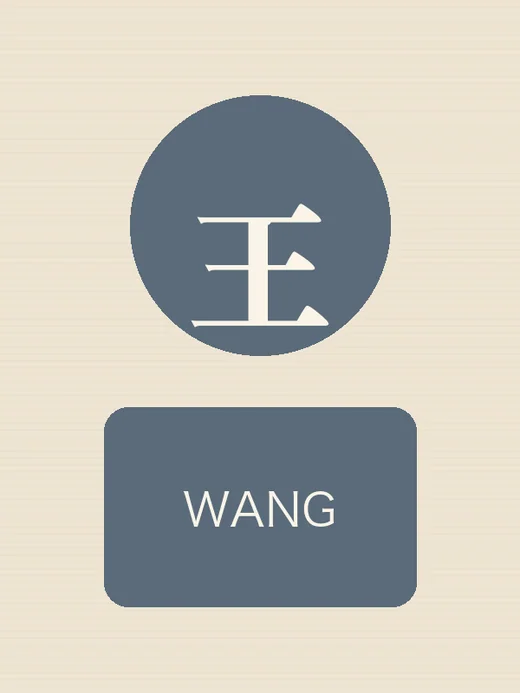
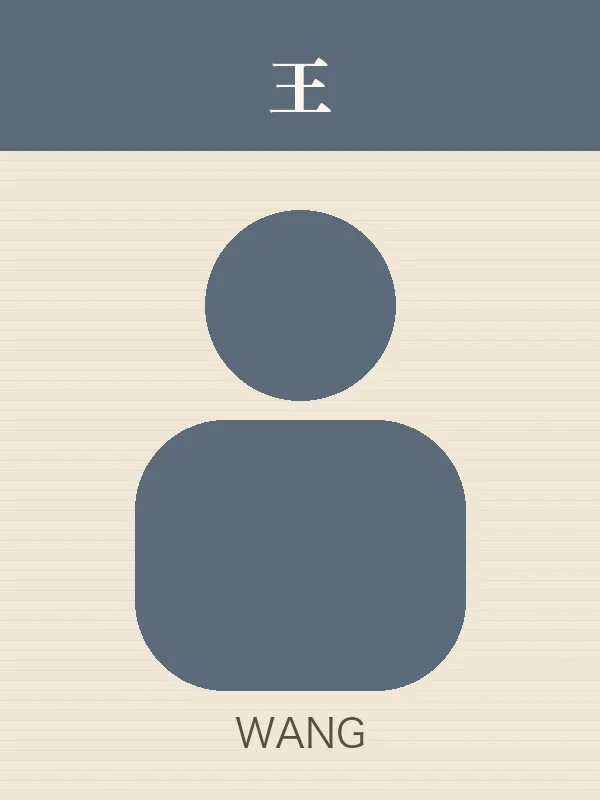
横屏布局修正、人物页头像重做、结局清自动存档

diff --git a/css/style.css b/css/style.css
@@ -362,7 +362,11 @@ button{font-family:inherit;cursor:pointer;border:0;background:none;color:inherit
   .chars-grid{grid-template-columns:repeat(auto-fill,minmax(150px,1fr))}
 }
 @media (max-height:560px) and (orientation:landscape){
-  .him{width:clamp(150px,26vh,260px);right:clamp(10px,4vw,60px)}
+  .him{width:clamp(200px,46vh,340px);right:clamp(10px,7vw,80px)}
+  .him-tag{font-size:calc(var(--ui) * .72)}
+  .dialogue{padding-bottom:calc(env(safe-area-inset-bottom) + 8px)}
+  .love-chip{top:calc(env(safe-area-inset-top) + 56px);right:auto;left:14px;padding:3px 9px 3px 7px}
+  .lc-label{display:none}
   .dlg-body{min-height:96px;padding:14px 16px 12px}
   .dlg-text{font-size:calc(var(--dlg) * .88);line-height:1.7}
   .dlg-tools{top:-32px}

diff --git a/js/engine.js b/js/engine.js
@@ -376,6 +376,7 @@
     const e = (STORY.endings || {})[id] || { title: id, text: '' };
     if (meta.endings.indexOf(id) < 0) meta.endings.push(id);
     meta.cleared = (meta.cleared || 0) + 1; saveMeta();
+    try { localStorage.removeItem(LS_AUTO); } catch (e) {}
     if (window.Music) Music.play(e.mood || 'ending');
     $('#end-title').textContent = e.title;
     $('#end-text').innerHTML = fmt(e.text || '');
@@ -398,6 +399,7 @@
     };
   }
   function restore(s) {
+    S.started = true;
     S.love = s.love || 0; S.flags = Object.assign({}, s.flags || {});
     S.history = (s.history || []).slice(); S.pose = s.pose || 'smile'; S.bg = null;
     $('#love-num').textContent = S.love;
